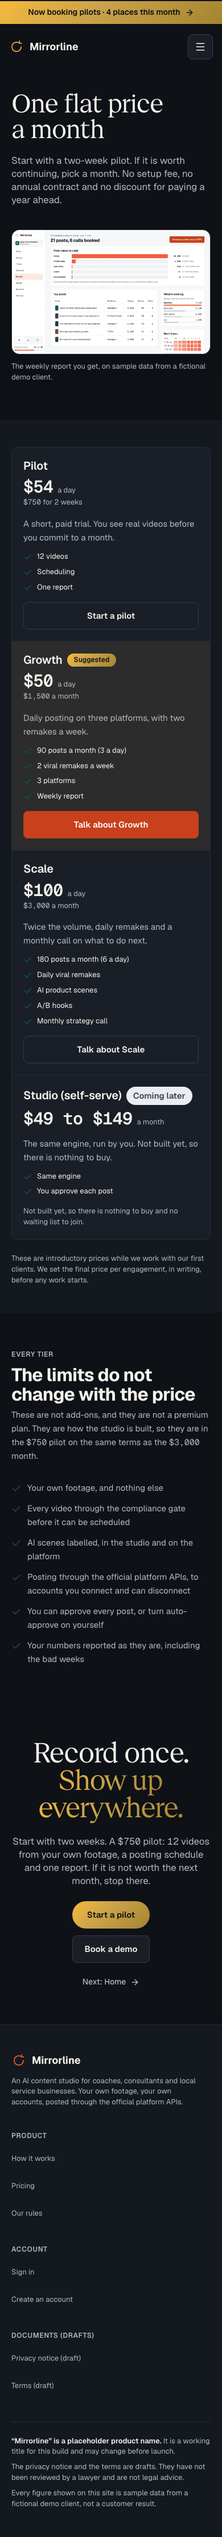
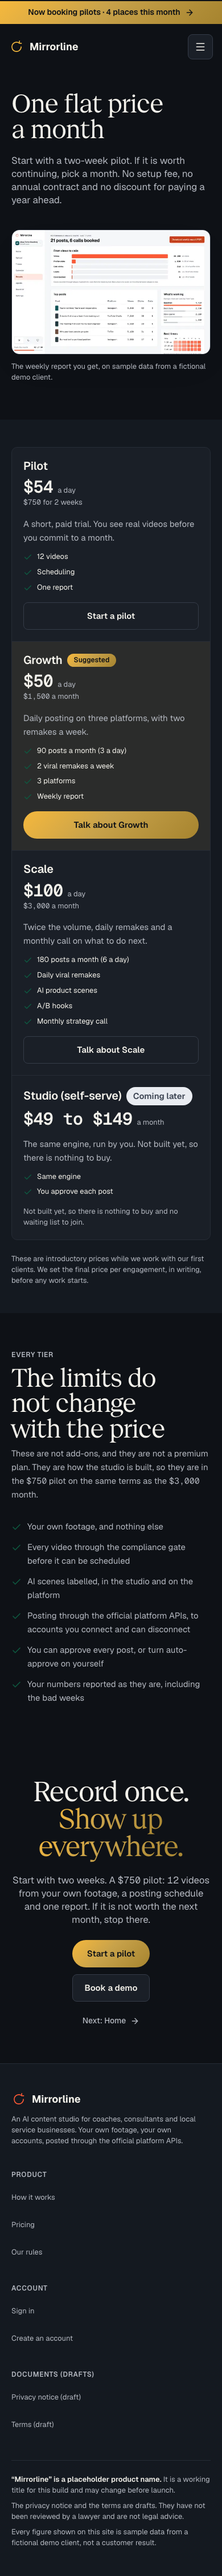
feat(marketing): serif headings and the gold primary across the sub-pages
* Section headings on /agents, /trust and /pricing take the serif display
  scale through the headingClassName prop.
* The suggested pricing tier's action is gold, not the studio's coral
  primary. One gold action per row is what marks it on this site.

lint, typecheck, test (268), build, licence-check pass. e2e 101 passed.

diff --git a/apps/web/app/(marketing)/pricing/page.tsx b/apps/web/app/(marketing)/pricing/page.tsx
@@ -131,7 +131,10 @@ export default function PricingPage() {
                   ) : (
                     <LeadDialogButton
                       intent={tier.id === 'pilot' ? 'pilot' : 'demo'}
-                      variant={tier.isSuggested ? 'primary' : 'secondary'}
+                      // Gold, not the studio's coral primary: this is the
+                      // public site, and one gold action per row is what
+                      // marks the suggested tier (D25).
+                      variant={tier.isSuggested ? 'gold' : 'secondary'}
                       size="lg"
                       fullWidth
                     >
@@ -149,6 +152,7 @@ export default function PricingPage() {
 
       <Section aria-labelledby="included-heading">
         <SectionHeading
+          headingClassName="text-site-h2 font-serif"
           id="included-heading"
           eyebrow="Every tier"
           title="The limits do not change with the price"

diff --git a/apps/web/app/(marketing)/agents/page.tsx b/apps/web/app/(marketing)/agents/page.tsx
@@ -100,6 +100,7 @@ export default function AgentsPage() {
 
       <Section tone="subtle" aria-labelledby="agents-heading">
         <SectionHeading
+          headingClassName="text-site-h2 font-serif"
           id="agents-heading"
           eyebrow="The loop"
           title="What each agent does"
@@ -174,6 +175,7 @@ export default function AgentsPage() {
 
       <Section aria-labelledby="client-heading">
         <SectionHeading
+          headingClassName="text-site-h2 font-serif"
           id="client-heading"
           title="What you actually do"
           lead="Five steps. The longest one is the upload, and the only one you cannot skip is the approval."

diff --git a/apps/web/app/(marketing)/trust/page.tsx b/apps/web/app/(marketing)/trust/page.tsx
@@ -210,6 +210,7 @@ export default function TrustPage() {
 
       <Section aria-labelledby="not-claimed-heading">
         <SectionHeading
+          headingClassName="text-site-h2 font-serif"
           id="not-claimed-heading"
           eyebrow="Plainly"
           title="What we don’t claim"
